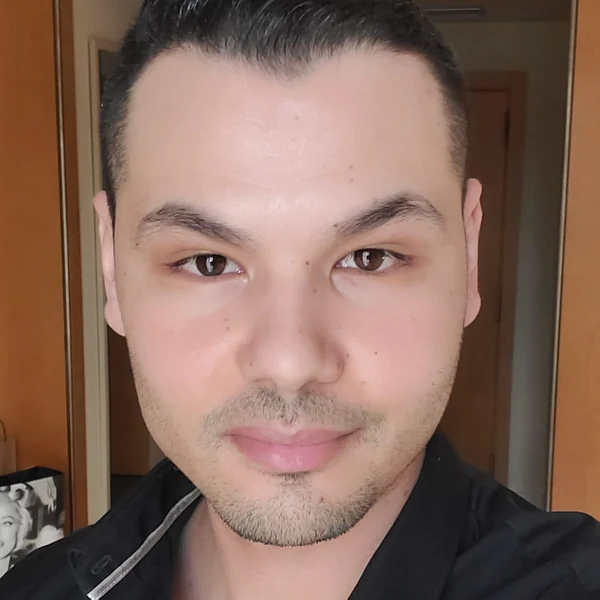
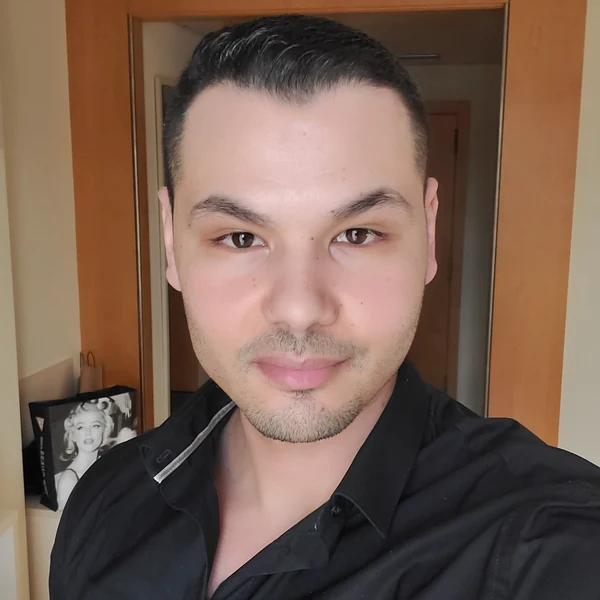
maj5

diff --git a/src/components/LiveTicker.tsx b/src/components/LiveTicker.tsx
@@ -1,0 +1,51 @@
+"use client";
+import { useEffect, useState } from "react";
+
+type Item = { label: string; price: number; change: number; pct: number };
+
+const FALLBACK: Item[] = [
+  { label: "S&P 500", price: 5412.25, change: 12.5, pct: 0.23 },
+  { label: "NASDAQ", price: 19204.5, change: 44.2, pct: 0.23 },
+  { label: "DOW", price: 41230, change: -60, pct: -0.15 },
+  { label: "GOLD", price: 2410, change: 8, pct: 0.33 },
+  { label: "NVDA", price: 142.3, change: 1.8, pct: 1.28 },
+];
+
+const fmt = (n: number) => (n ?? 0).toLocaleString("fr-FR", { maximumFractionDigits: 2 });
+
+export default function LiveTicker() {
+  const [items, setItems] = useState<Item[]>(FALLBACK);
+
+  useEffect(() => {
+    let alive = true;
+    const load = async () => {
+      try {
+        const r = await fetch("/api/ticker");
+        const j = await r.json();
+        if (alive && j.items?.length) setItems(j.items);
+      } catch {}
+    };
+    load();
+    const id = setInterval(load, 15000);
+    return () => { alive = false; clearInterval(id); };
+  }, []);
+
+  const row = [...items, ...items];
+  return (
+    <div className="border-b border-line bg-[#06040C] overflow-hidden">
+      <div className="tape-track py-2 font-mono text-xs text-dim">
+        {row.map((it, i) => {
+          const up = (it.change ?? 0) >= 0;
+          return (
+            <span key={i} className="mx-5">
+              {it.label}{" "}
+              <span style={{ color: up ? "#2ECC71" : "#FF6B81" }}>
+                {fmt(it.price)} {up ? "▲" : "▼"} {up ? "+" : ""}{(it.pct ?? 0).toFixed(2)}%
+              </span>
+            </span>
+          );
+        })}
+      </div>
+    </div>
+  );
+}

diff --git a/src/app/api/ticker/route.ts b/src/app/api/ticker/route.ts
@@ -1,0 +1,33 @@
+import { NextResponse } from "next/server";
+
+// Indices/actions/or liquides (proxys de l'ES/NQ, dispo en temps reel sur le plan gratuit Finnhub)
+const SYMS: [string, string][] = [
+  ["SPY", "S&P 500"], ["QQQ", "NASDAQ"], ["DIA", "DOW"], ["IWM", "RUSSELL"],
+  ["NVDA", "NVDA"], ["AAPL", "AAPL"], ["TSLA", "TSLA"], ["MSFT", "MSFT"],
+  ["GLD", "GOLD"], ["AMZN", "AMZN"],
+];
+
+let cache: { t: number; data: unknown[] } = { t: 0, data: [] };
+
+export async function GET() {
+  const key = process.env.FINNHUB_API_KEY;
+  if (!key) return NextResponse.json({ items: [] });
+
+  const now = Date.now();
+  if (now - cache.t < 12000 && cache.data.length) return NextResponse.json({ items: cache.data });
+
+  try {
+    const items = await Promise.all(
+      SYMS.map(async ([sym, label]) => {
+        const r = await fetch(`https://finnhub.io/api/v1/quote?symbol=${sym}&token=${key}`, { cache: "no-store" });
+        const q = await r.json();
+        return { label, price: q.c, change: q.d, pct: q.dp };
+      })
+    );
+    const clean = items.filter((i) => i.price);
+    if (clean.length) cache = { t: now, data: clean };
+    return NextResponse.json({ items: clean });
+  } catch {
+    return NextResponse.json({ items: cache.data });
+  }
+}

diff --git a/src/app/page.tsx b/src/app/page.tsx
@@ -1,7 +1,6 @@
 import Link from "next/link";
 import { MODULES } from "@/lib/curriculum";
-
-const TICK = ["ES 5 412.25 ▲","NQ 19 204.5 ▲","CL 78.42 ▼","POC 5 408.00","VAH 5 421 · VAL 5 395","DELTA +12 480","ABSORPTION 5 396"];
+import LiveTicker from "@/components/LiveTicker";
 
 const SHOTS = [
   { src: "/images/tpo.webp", t: "TPO / Market Profile", d: "Zones de valeur : TPO VAH, POC et VAL identifiés sur la séance." },
@@ -22,12 +21,8 @@ const OUTS = [
 export default function Home() {
   return (
     <main>
-      {/* TICKER */}
-      <div className="border-b border-line bg-[#06040C] overflow-hidden">
-        <div className="tape-track py-2 font-mono text-xs text-dim">
-          {[...TICK, ...TICK].map((s, i) => <span key={i} className="mx-5">{s}</span>)}
-        </div>
-      </div>
+      {/* TICKER LIVE */}
+      <LiveTicker />
 
       {/* NAV */}
       <header className="sticky top-0 z-50 bg-bg/85 backdrop-blur border-b border-line">
